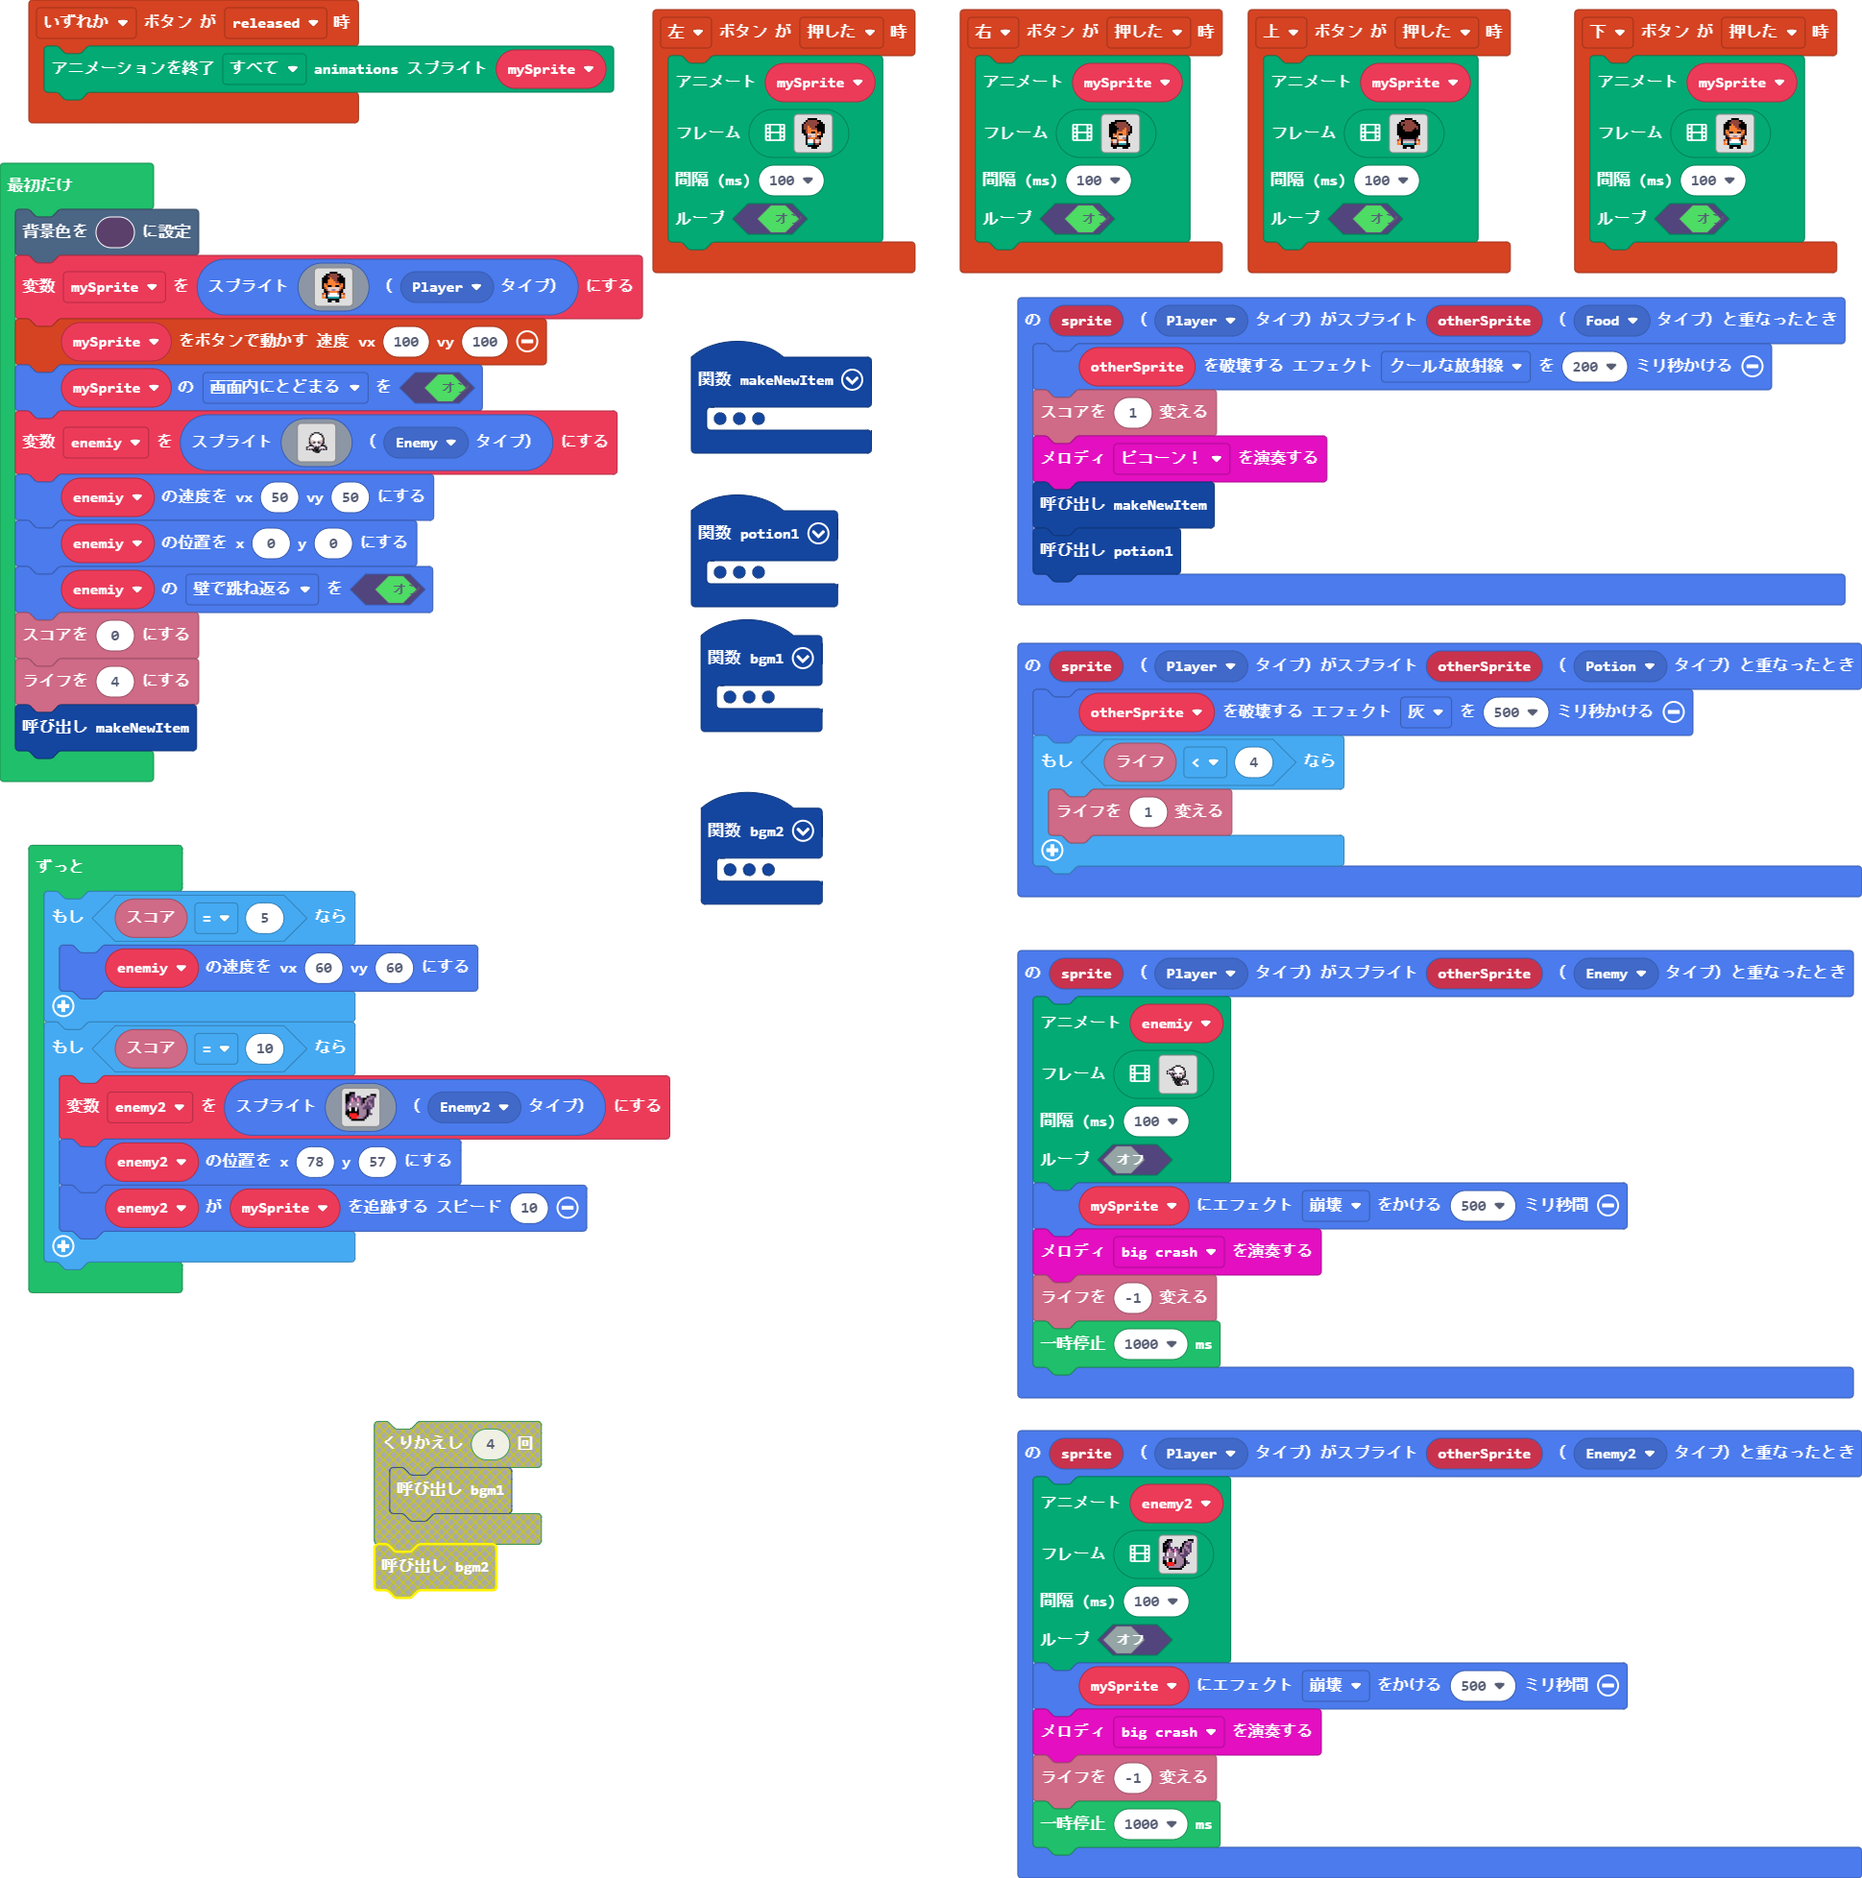
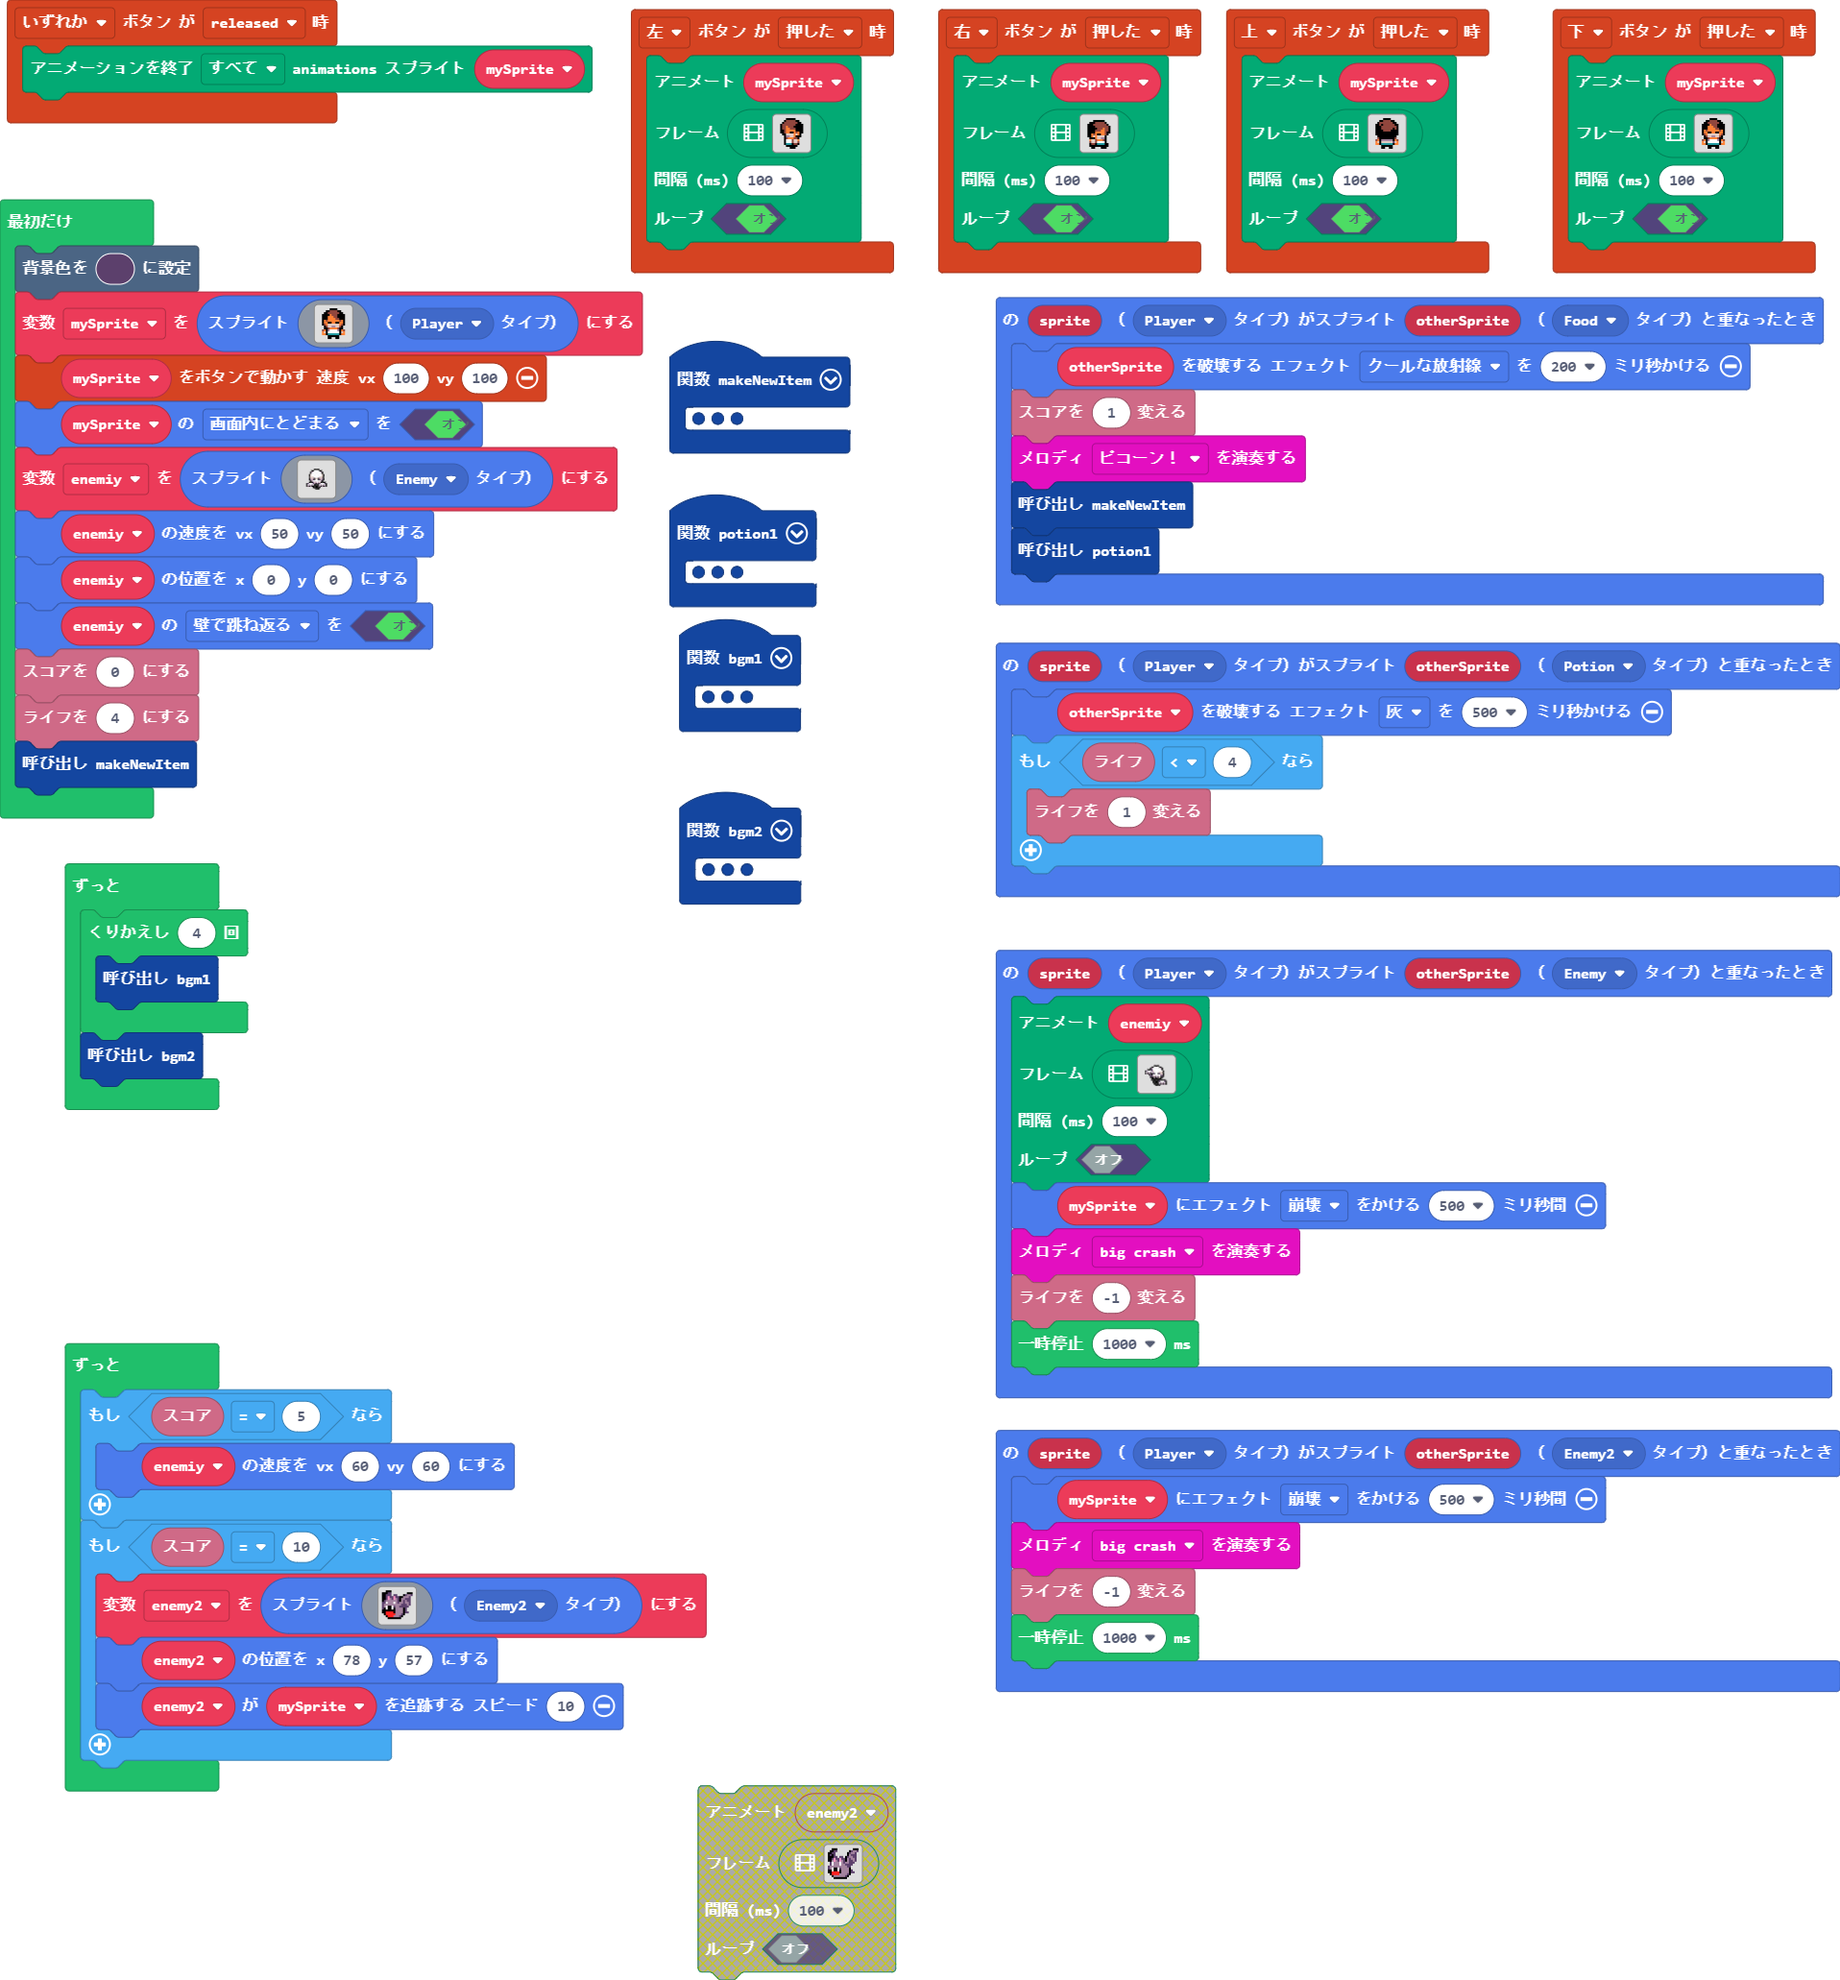
更新 main.blocks, main.ts

diff --git a/main.ts b/main.ts
@@ -308,80 +308,6 @@ controller.left.onEvent(ControllerButtonEvent.Pressed, function () {
     )
 })
 sprites.onOverlap(SpriteKind.Player, SpriteKind.Enemy2, function (sprite, otherSprite) {
-    animation.runImageAnimation(
-    enemy2,
-    [img`
-        . . f f f . . . . . . . . f f f 
-        . f f c c . . . . . . f c b b c 
-        f f c c . . . . . . f c b b c . 
-        f c f c . . . . . . f b c c c . 
-        f f f c c . c c . f c b b c c . 
-        f f c 3 c c 3 c c f b c b b c . 
-        f f b 3 b c 3 b c f b c c b c . 
-        . c 1 b b b 1 b c b b c c c . . 
-        . c 1 b b b 1 b b c c c c . . . 
-        c b b b b b b b b b c c . . . . 
-        c b 1 f f 1 c b b b b f . . . . 
-        f f 1 f f 1 f b b b b f c . . . 
-        f f 2 2 2 2 f b b b b f c c . . 
-        . f 2 2 2 2 b b b b c f . . . . 
-        . . f b b b b b b c f . . . . . 
-        . . . f f f f f f f . . . . . . 
-        `,img`
-        . . f f f . . . . . . . . . . . 
-        f f f c c . . . . . . . . f f f 
-        f f c c c . c c . . . f c b b c 
-        f f c 3 c c 3 c c f f b b b c . 
-        f f c 3 b c 3 b c f b b c c c . 
-        f c b b b b b b c f b c b c c . 
-        c c 1 b b b 1 b c b b c b b c . 
-        c b b b b b b b b b c c c b c . 
-        c b 1 f f 1 c b b c c c c c . . 
-        c f 1 f f 1 f b b b b f c . . . 
-        f f f f f f f b b b b f c . . . 
-        f f 2 2 2 2 f b b b b f c c . . 
-        . f 2 2 2 2 2 b b b c f . . . . 
-        . . f 2 2 2 b b b c f . . . . . 
-        . . . f f f f f f f . . . . . . 
-        . . . . . . . . . . . . . . . . 
-        `,img`
-        . . . . . . . . . . . . . . . . 
-        . . . . . . . . . . . . . . . . 
-        . . . c c . c c . . . . . . . . 
-        . . f 3 c c 3 c c c . . . . . . 
-        . f c 3 b c 3 b c c c . . . . . 
-        f c b b b b b b b b f f . . . . 
-        c c 1 b b b 1 b b b f f . . . . 
-        c b b b b b b b b c f f f . . . 
-        c b 1 f f 1 c b b f f f f . . . 
-        f f 1 f f 1 f b c c b b b . . . 
-        f f f f f f f b f c c c c . . . 
-        f f 2 2 2 2 f b f b b c c c . . 
-        . f 2 2 2 2 2 b c c b b c . . . 
-        . . f 2 2 2 b f f c c b b c . . 
-        . . . f f f f f f f c c c c c . 
-        . . . . . . . . . . . . c c c c 
-        `,img`
-        . f f f . . . . . . . . f f f . 
-        f f c . . . . . . . f c b b c . 
-        f c c . . . . . . f c b b c . . 
-        c f . . . . . . . f b c c c . . 
-        c f f . . . . . f f b b c c . . 
-        f f f c c . c c f b c b b c . . 
-        f f f c c c c c f b c c b c . . 
-        . f c 3 c c 3 b c b c c c . . . 
-        . c b 3 b c 3 b b c c c c . . . 
-        c c b b b b b b b b c c . . . . 
-        c 1 1 b b b 1 1 b b b f c . . . 
-        f b b b b b b b b b b f c c . . 
-        f b c b b b c b b b b f . . . . 
-        . f 1 f f f 1 b b b c f . . . . 
-        . . f b b b b b b c f . . . . . 
-        . . . f f f f f f f . . . . . . 
-        `],
-    100,
-    false
-    )
     mySprite.startEffect(effects.disintegrate, 500)
     music.bigCrash.play()
     info.changeLifeBy(-1)
@@ -685,6 +611,12 @@ enemiy.setFlag(SpriteFlag.BounceOnWall, true)
 info.setScore(0)
 info.setLife(4)
 makeNewItem()
+forever(function () {
+    for (let index = 0; index < 4; index++) {
+        bgm1()
+    }
+    bgm2()
+})
 forever(function () {
     if (info.score() == 5) {
         enemiy.setVelocity(60, 60)
